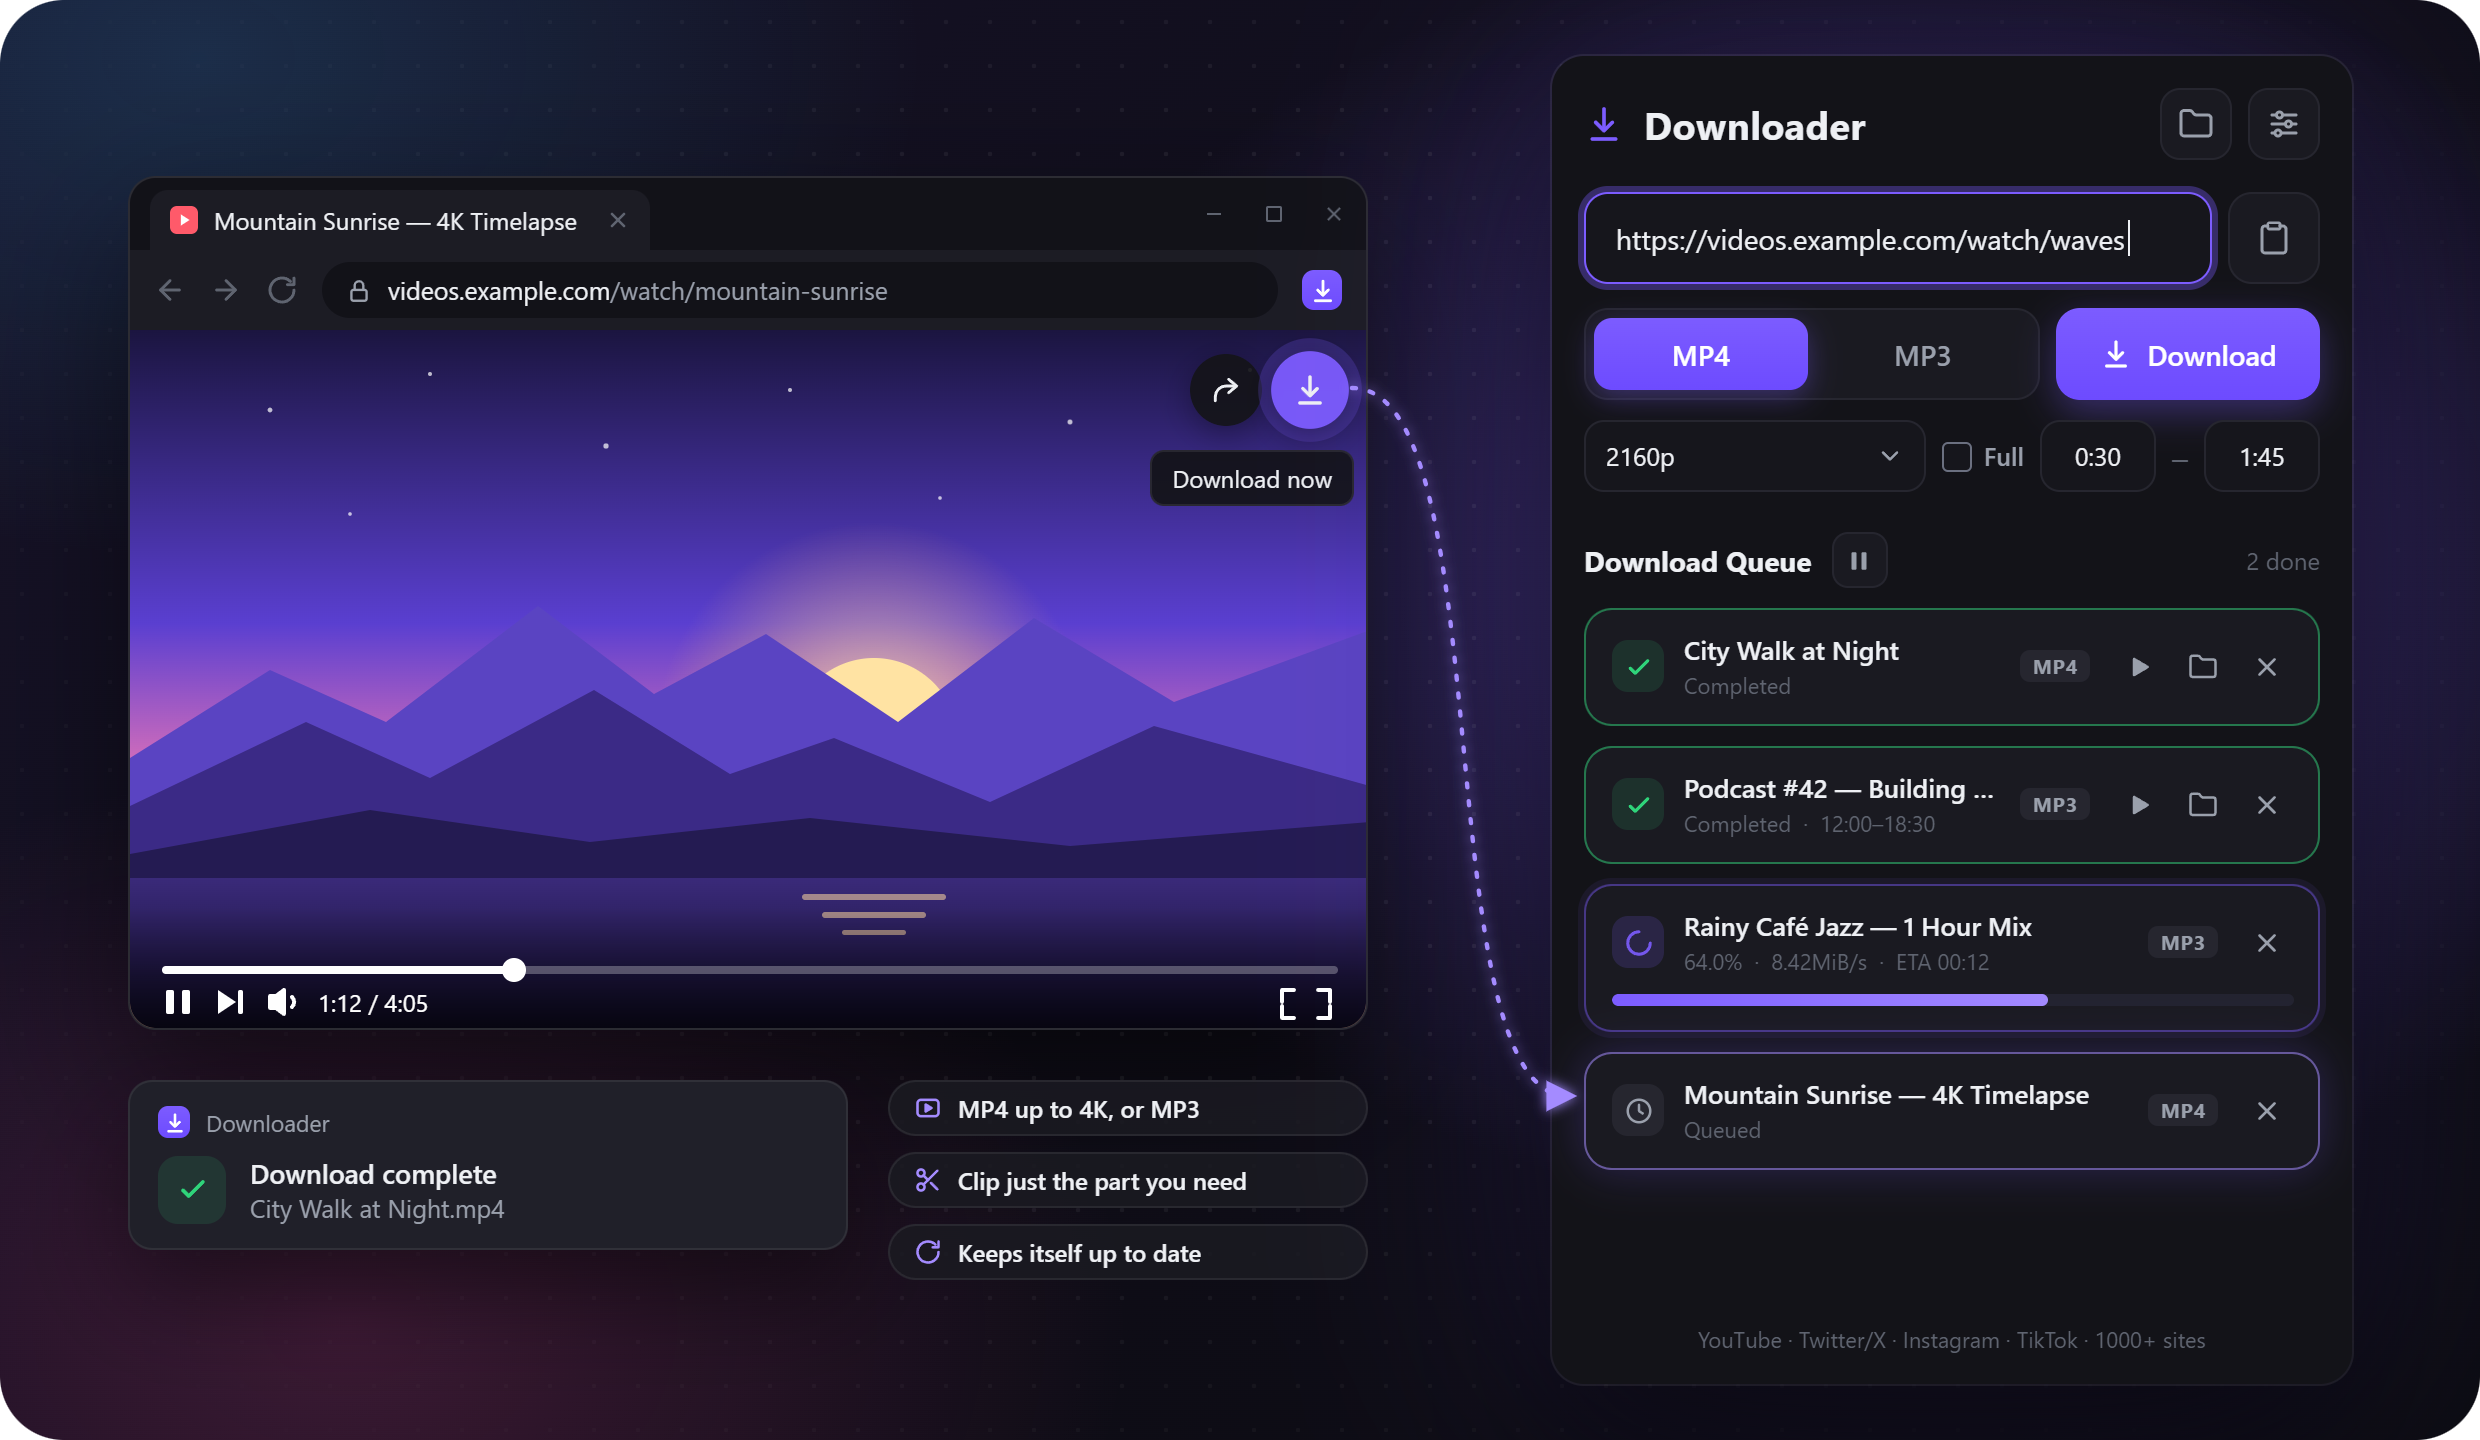
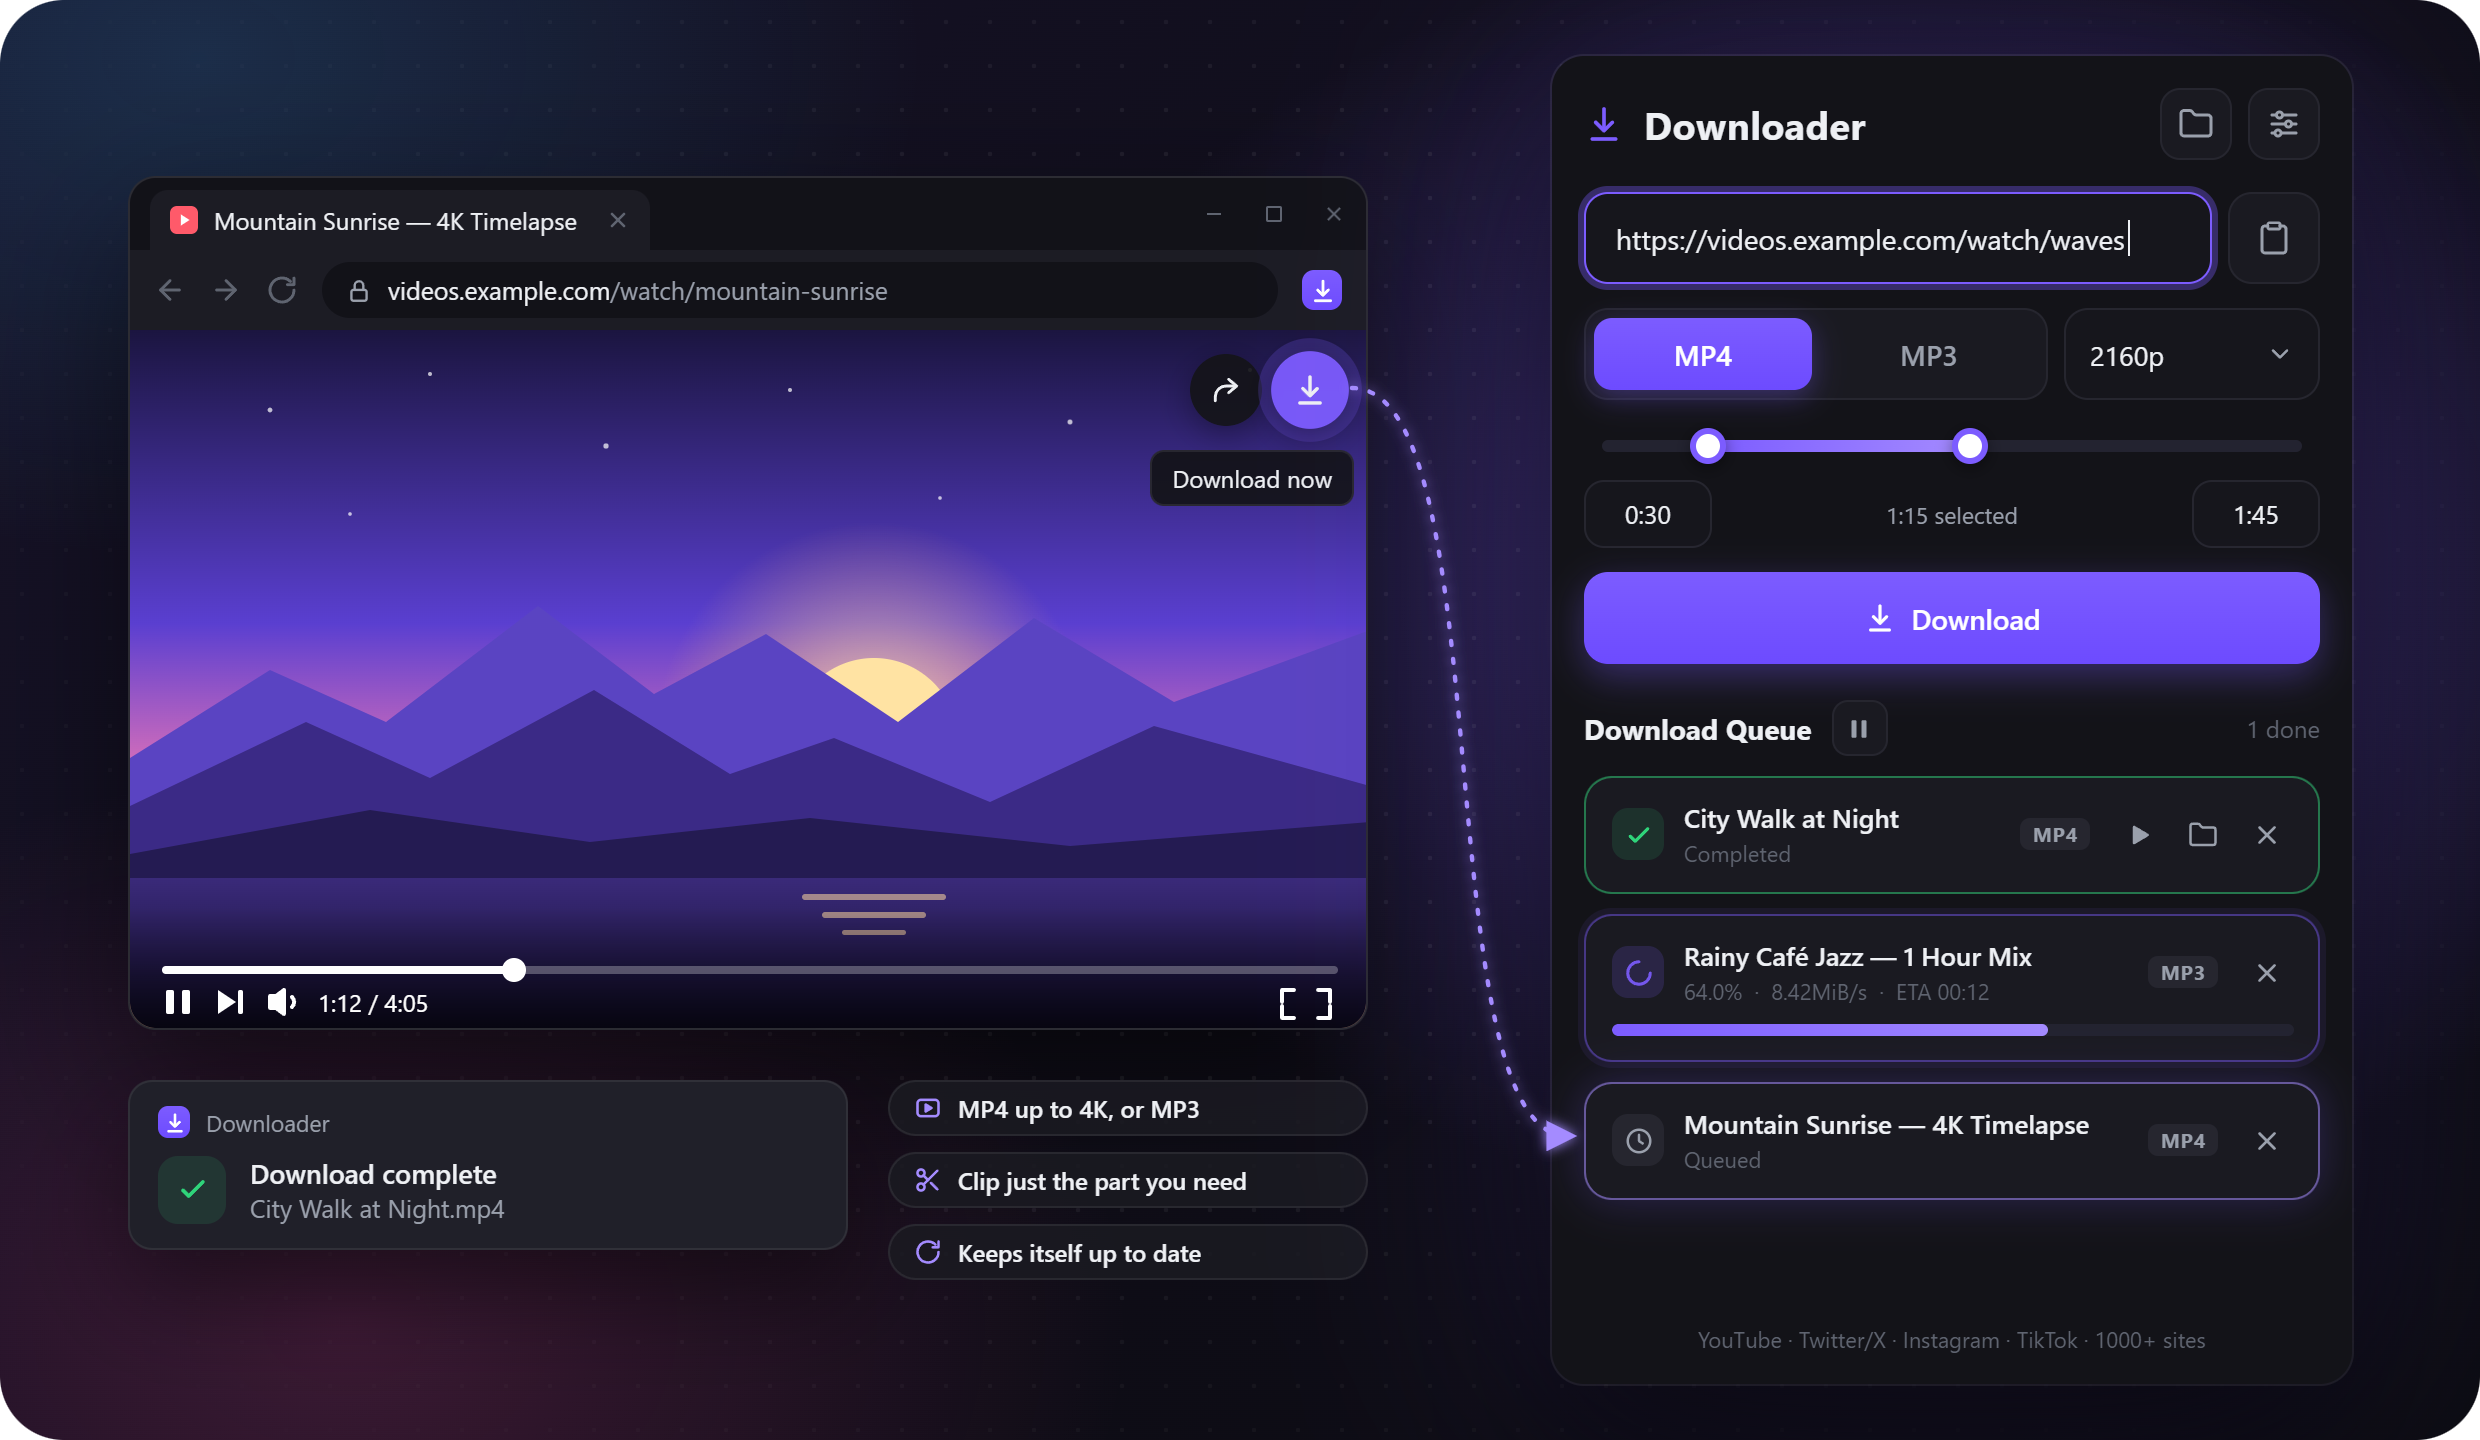
Update the README for 1.1.0

Changed region(s): [[0.621, 0.2812, 0.9625, 0.8125], [0.8073, 0.1875, 0.9625, 0.3125], [0.8694, 0.75, 0.9004, 0.8125]]

diff --git a/README.md b/README.md
@@ -17,7 +17,7 @@
 ## Features
 
 - **MP4** in the quality you pick (up to 4K), or **MP3**
-- **Clip:** download just part of a video (start – end)
+- **Clip:** pick the part to download with a slider, or type the start and end times
 - **Queue:** add as many links as you like; pause and resume
 - **Chrome extension:** a download button right on the video
 - Keeps itself, yt-dlp and FFmpeg up to date
@@ -26,7 +26,7 @@
 
 ## Chrome extension
 
-The extension isn't in the Chrome Web Store; it comes with Downloader. Tick **Set up the Chrome extension** on the last page of setup, or open **Settings → Chrome extension → Install**, and Downloader walks you through the three steps.
+The extension isn't in the Chrome Web Store; it comes with Downloader. Tick **Set up the Chrome extension** on the last page of setup, or open **Settings → Chrome extension → Install**, and Downloader walks you through the four steps: **Copy path and open Chrome** copies the extension's folder path for you.
 
 ## Bugs and ideas
 
